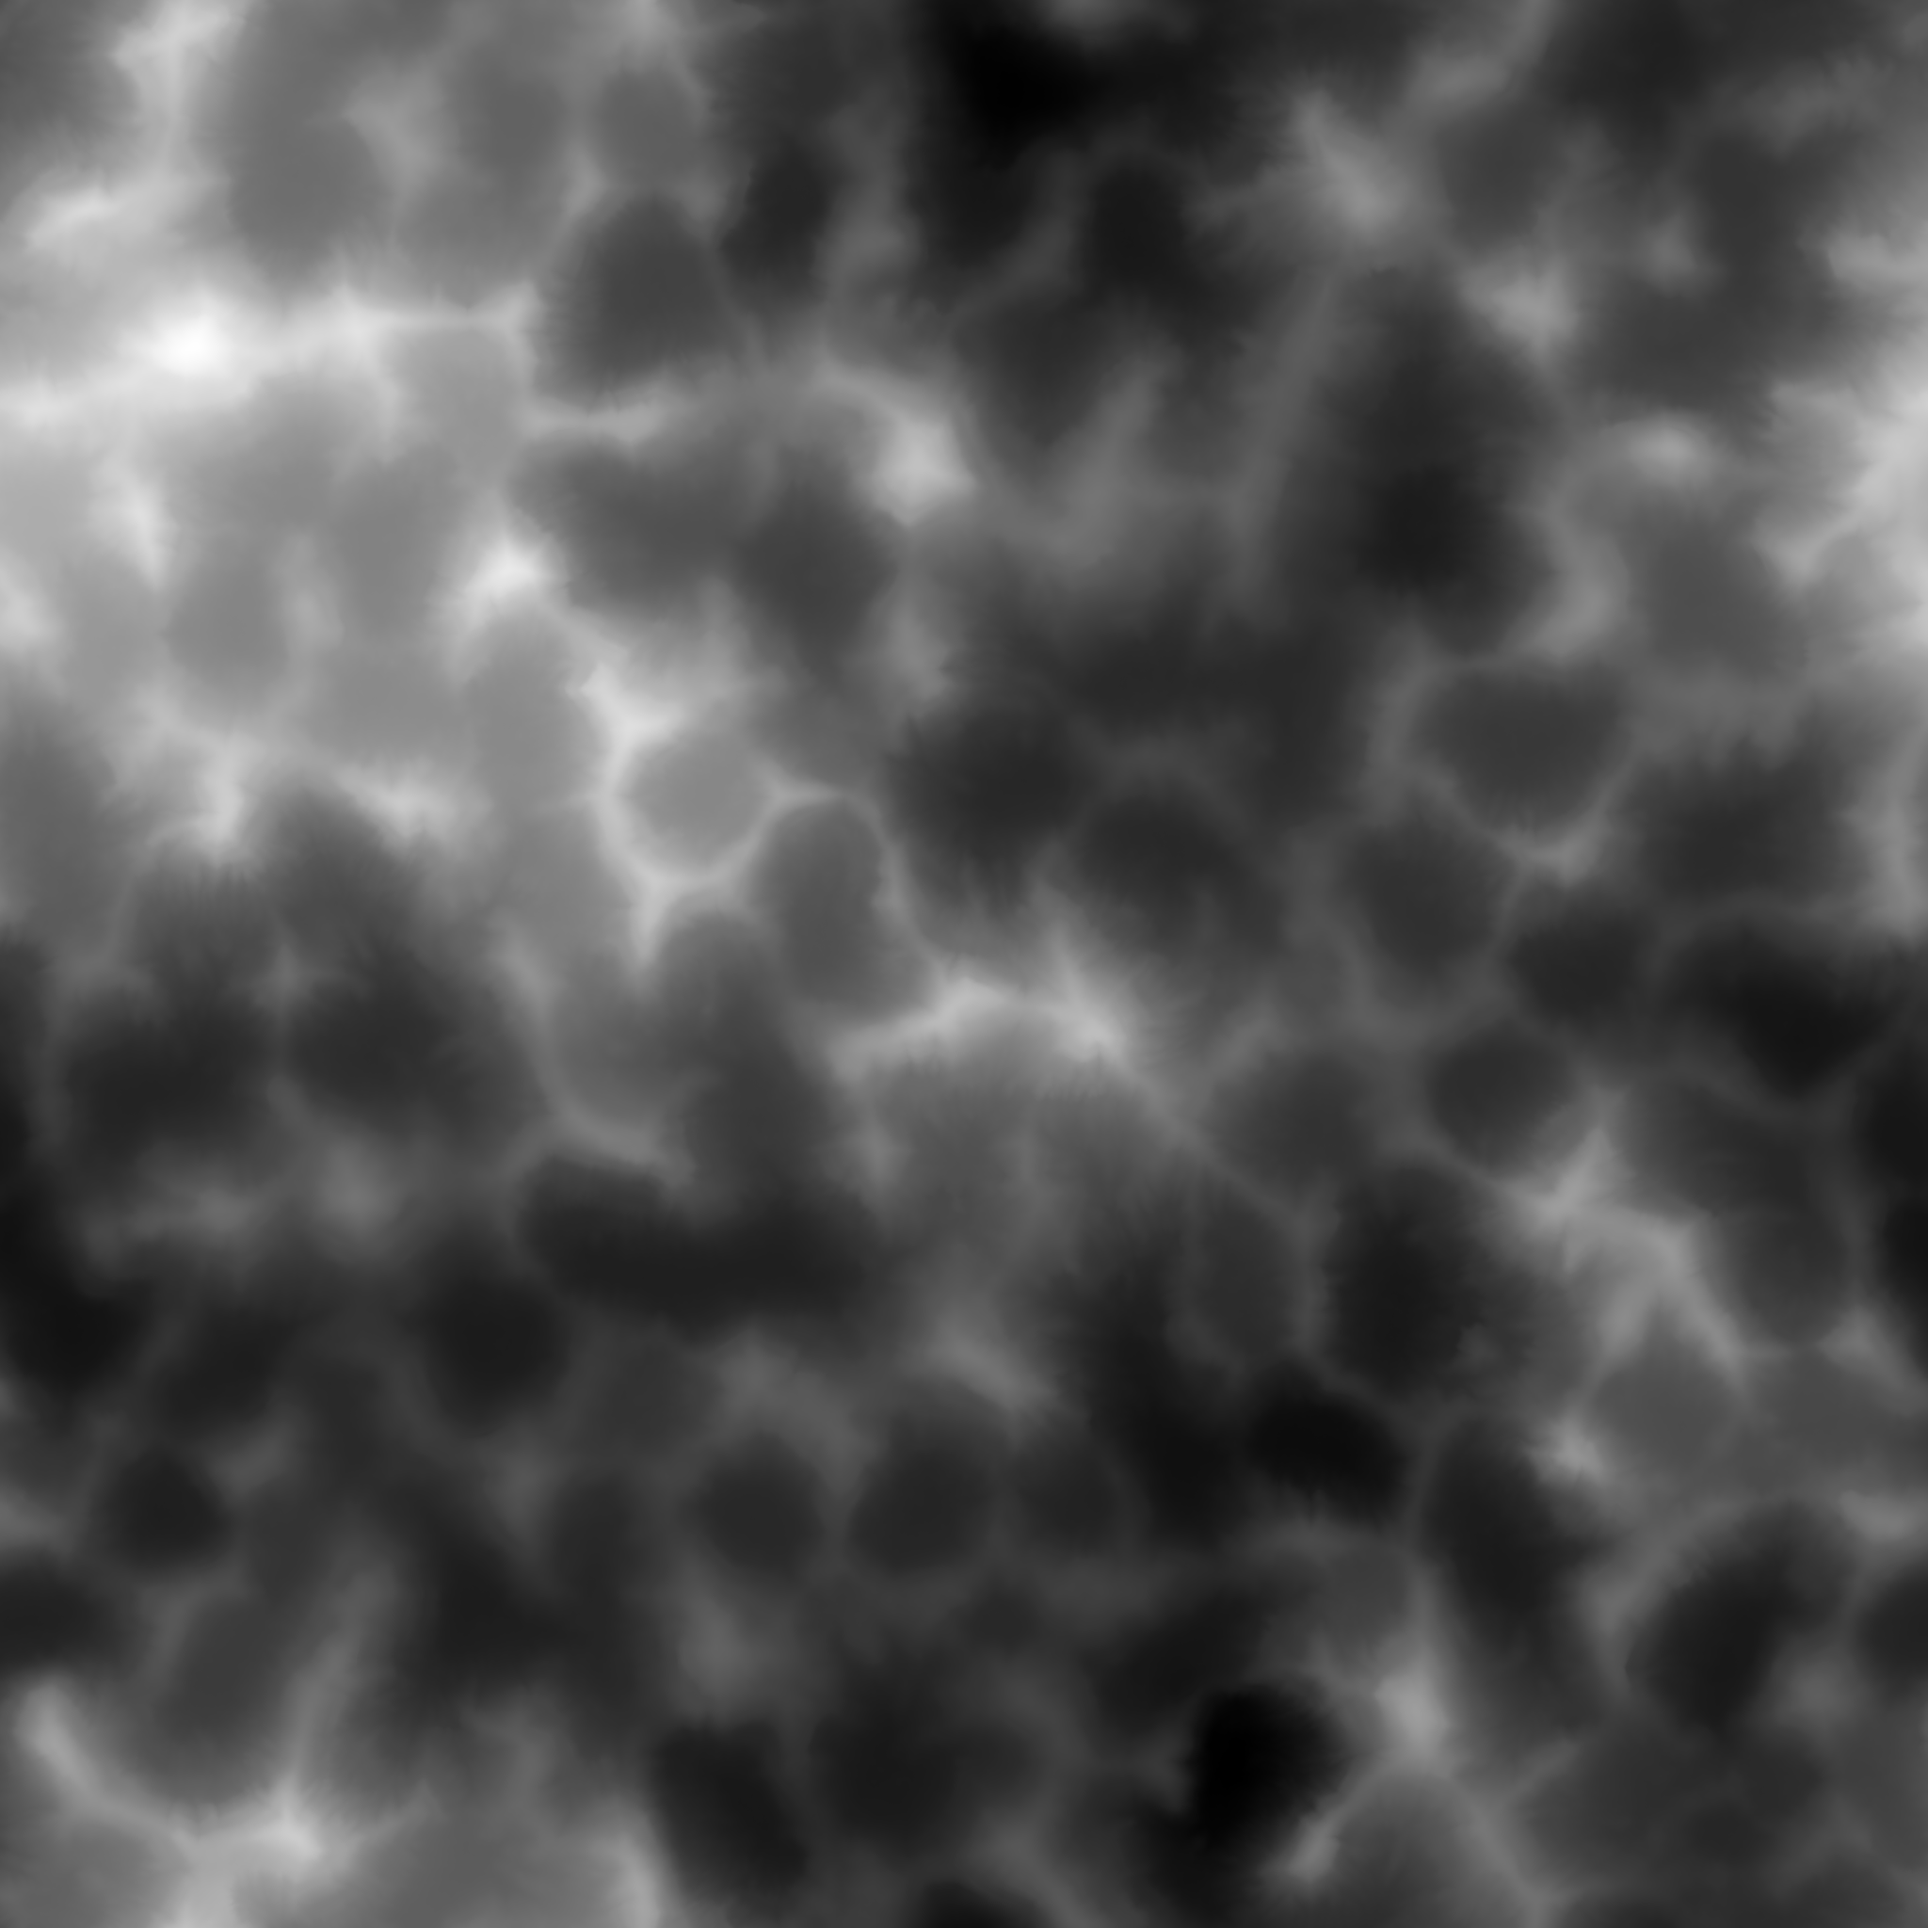
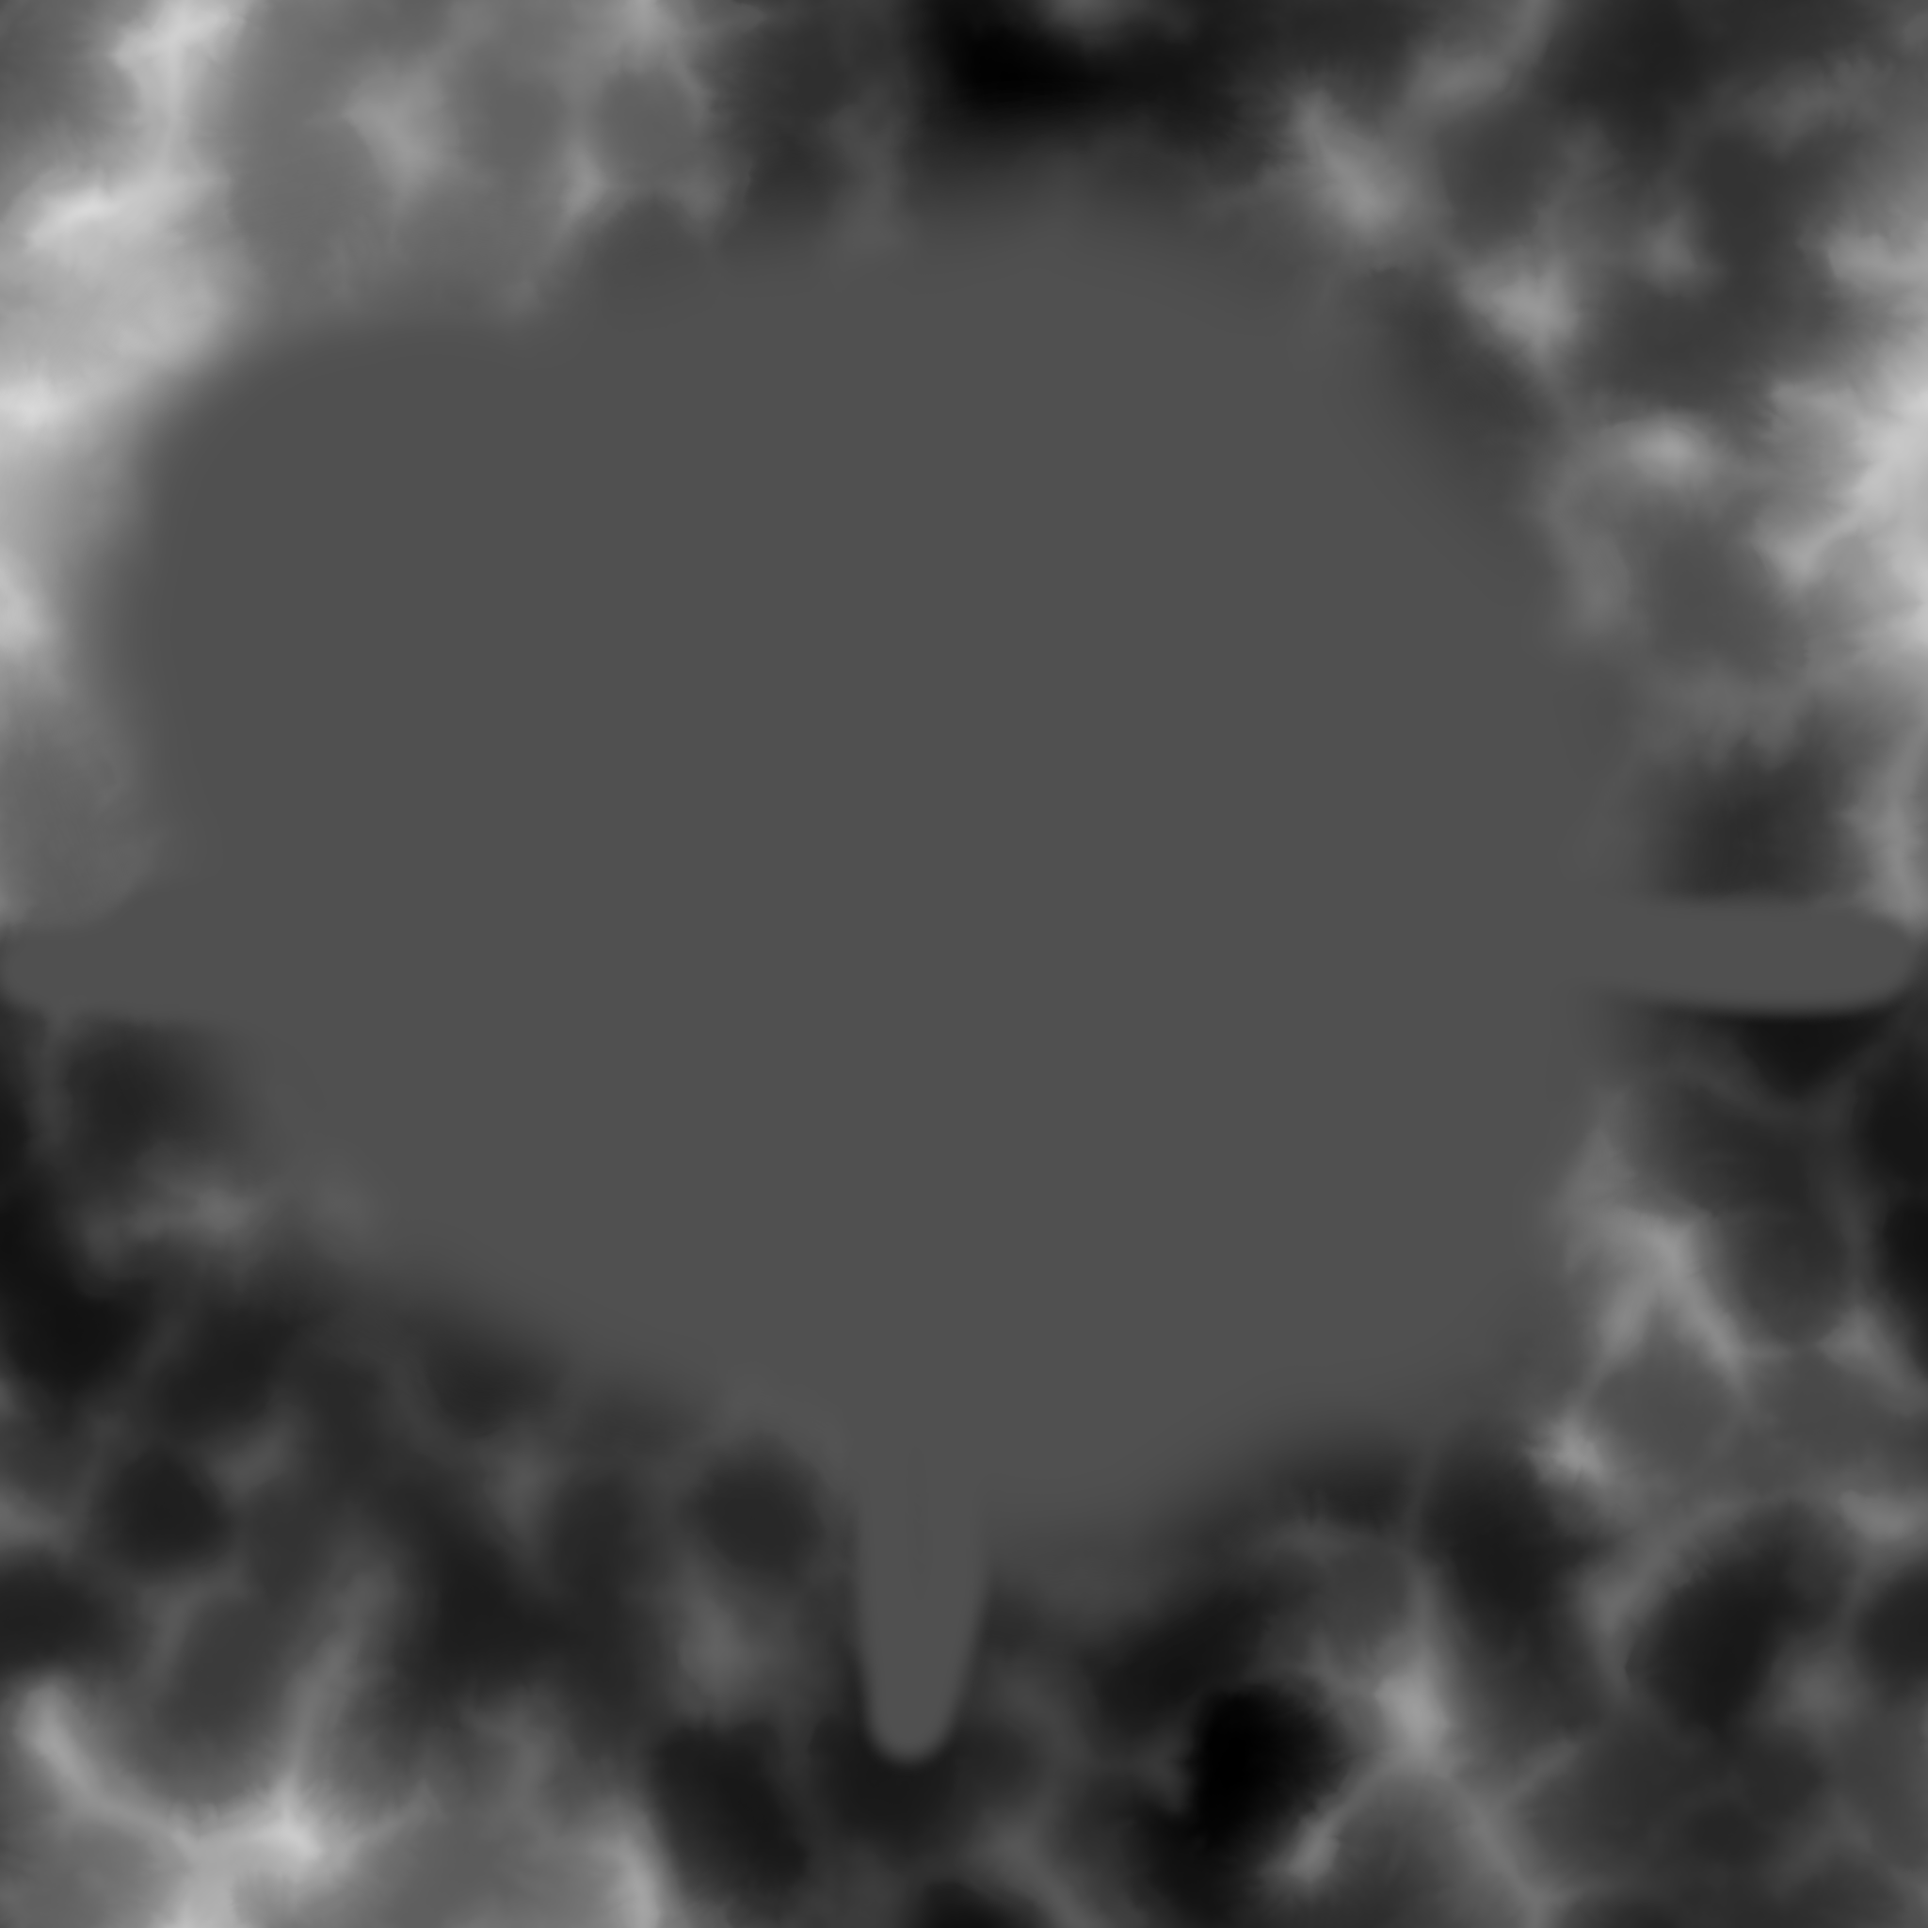
wheels work with terrain

Changed region(s): [[0.0, 0.0625, 0.8438, 0.7188], [0.4375, 0.4062, 1.0, 0.9062]]

diff --git a/src/plane.cpp b/src/plane.cpp
@@ -49,8 +49,8 @@ void Plane::update(double delta,
         debugArrows.push_back(std::make_tuple(arrowPos, arrowDir, arrowColor));
     }
 
-    //cout << rudder.back().getDeflection().x << " ";
-    //cout << elevators.back().getDeflection().x << " " << getFlaps() << endl;
+    cout << rudder.back().getDeflection().x << " ";
+    cout << elevators.back().getDeflection().x << " " << getFlaps() << endl;
     // cout << orientation.w << ' ' << orientation.x << ' ' << orientation.y << ' ' << orientation.z << ' '  << endl;
 
     glm::vec3 euler = glm::eulerAngles(orientation);
@@ -93,7 +93,7 @@ void Plane::update(double delta,
 
 }
 
-Plane Plane::getDefaultPlane(std::vector<std::tuple<glm::vec3, glm::vec3, glm::vec3>>& debugArrows) {
+Plane Plane::getDefaultPlane(std::vector<std::tuple<glm::vec3, glm::vec3, glm::vec3>>& debugArrows, const Terrain& terrain) {
     // sources of specs
     
     // http://www.boeing.com/assets/pdf/commercial/airports/acaps/737.pdf
@@ -288,7 +288,7 @@ Plane Plane::getDefaultPlane(std::vector<std::tuple<glm::vec3, glm::vec3, glm::v
 
 
     Plane plane = Plane(
-        glm::dvec3(0, 4, 0), // pos
+        glm::dvec3(0, -1740+100, 0), // pos
         glm::dvec3(0, 0, 0),// velocity
         totalMass,
         inertia,
@@ -298,12 +298,12 @@ Plane Plane::getDefaultPlane(std::vector<std::tuple<glm::vec3, glm::vec3, glm::v
         std::move(rudder),
         std::move(fuselage),
         Engine(105000), // engine
-        Wheels(72467, 10, 10000, glm::dvec3(0, -4, -10)), // Front wheels
-        Wheels(434802, 400, 40000, glm::dvec3(-3, -4, 5)), // Main wheels left
-        Wheels(434802, 400, 40000, glm::dvec3(3, -4, 5)) // Main wheels right
+        Wheels(72467, 10, 10000, glm::dvec3(0, -4, -10), terrain), // Front wheels
+        Wheels(434802, 400, 40000, glm::dvec3(-3, -4, 5), terrain), // Main wheels left
+        Wheels(434802, 400, 40000, glm::dvec3(3, -4, 5), terrain) // Main wheels right
     );
-    plane.orientation = glm::dquat(glm::dvec3(0,3,0));
-    plane.vel = plane.orientation * glm::dvec3(0,0,0);
+    plane.orientation = glm::dquat(glm::dvec3(0,1,0));
+    plane.vel = plane.orientation * glm::dvec3(0,0,-40);
 
     return plane;
 }

diff --git a/src/wheels.cpp b/src/wheels.cpp
@@ -20,14 +20,19 @@ std::tuple<glm::dvec3, glm::dvec3> Wheels::getForceAndTorque(
     glm::dvec3 localVelocity = glm::conjugate(orientation) * velocity + glm::cross(angularVelocity, position);
     glm::dvec3 absoluteVelocity = velocity + orientation * glm::cross(angularVelocity, position);
 
-    double groundY = 0; // ground height at absolutePosition
+
+    double h = terrain.get_height(glm::vec2(absolutePosition.x, absolutePosition.z));
+    debugArrows.push_back({glm::vec3(absolutePosition.x, h, absolutePosition.z), glm::vec3(0,1,0), glm::vec3(1,0,0)});
+
+
+    double groundY = h; // ground height at absolutePosition
     glm::dvec3 groundNormal = glm::normalize(glm::dvec3(0, 1, 0)); // ground normal at absolutePosition
 
     if (absolutePosition.y > groundY) {
         return {glm::dvec3(0), glm::dvec3(0)};
     }
     
-    if (absolutePosition.y < groundY - 0.9) {
+    if (absolutePosition.y < groundY - 4) {
         throw std::runtime_error("Wheels break");
     }
 

diff --git a/src/wheels.h b/src/wheels.h
@@ -6,15 +6,17 @@
 #include <glm/gtc/quaternion.hpp>
 #include <tuple>
 #include <vector>
+#include "openGL/terrain/terrain.h"
 
 class Wheels {
 public:
-    Wheels(double stiffness, double frictionCoefficient, double springFriction, const glm::dvec3& position) :
+    Wheels(double stiffness, double frictionCoefficient, double springFriction, const glm::dvec3& position, const Terrain& terrain) :
         stiffness{stiffness},
         frictionCoefficient{frictionCoefficient},
         springFriction{springFriction},
         position{position},
-        brakesOn{false}
+        brakesOn{false},
+        terrain{terrain}
     {}
 
     std::tuple<glm::dvec3, glm::dvec3> getForceAndTorque(
@@ -34,6 +36,8 @@ private:
     double springFriction; // TEST?
     glm::dvec3 position; // position (where it is attached) relative to the plane
     bool brakesOn;
+
+    const Terrain& terrain;
 };
 
 #endif

diff --git a/src/frontend3d.cpp b/src/frontend3d.cpp
@@ -55,7 +55,7 @@ void Frontend3d::draw(sf::RenderWindow& window, const Plane &plane,
         renderer.queue_render(&planeModel);
 
     grid.set_pos(glm::vec3(planePos.x, 0, planePos.z));
-    renderer.queue_render(&grid);
+    //renderer.queue_render(&grid);
     
     for (auto& a : debugArrows) {
         glm::vec3 origin, direction, color;
@@ -67,8 +67,8 @@ void Frontend3d::draw(sf::RenderWindow& window, const Plane &plane,
     renderer.queue_render(&arrow);
 
 
-    //terrain.set_pos_offset(posOffset);
-    //renderer.queue_render(&terrain);
+    terrain.set_pos_offset(posOffset);
+    renderer.queue_render(&terrain);
 
     renderer.render(light_dir, light_color, projection, view, camera.get_position());
     //hud.draw(window, plane);

diff --git a/src/plane.h b/src/plane.h
@@ -84,7 +84,7 @@ public:
     }
     
 
-    static Plane getDefaultPlane(std::vector<std::tuple<glm::vec3, glm::vec3, glm::vec3>>& debugArrows);
+    static Plane getDefaultPlane(std::vector<std::tuple<glm::vec3, glm::vec3, glm::vec3>>& debugArrows, const Terrain& terrain);
 
     // doesn't take into account incidence, but hopefully it is small enough for estimating inertia
     static void addPointMasses(double length, double root, double tip, double sweep, 

diff --git a/src/main.cpp b/src/main.cpp
@@ -42,7 +42,7 @@ int main()
     Frontend3d frontend(screenSize);
     std::vector<std::tuple<glm::vec3, glm::vec3, glm::vec3>> debugArrows;
     
-    Plane plane = Plane::getDefaultPlane(debugArrows);
+    Plane plane = Plane::getDefaultPlane(debugArrows, frontend.get_terrain());
     // plane.setThrottle(75);
 
 

diff --git a/src/frontend3d.h b/src/frontend3d.h
@@ -23,6 +23,8 @@ public:
     void keyInput();
     void mouseInput(sf::Window& window);
     void input(const sf::Event& event);
+
+    const Terrain& get_terrain() const {return terrain;}
 private:
     Renderer renderer;
     Camera camera;
